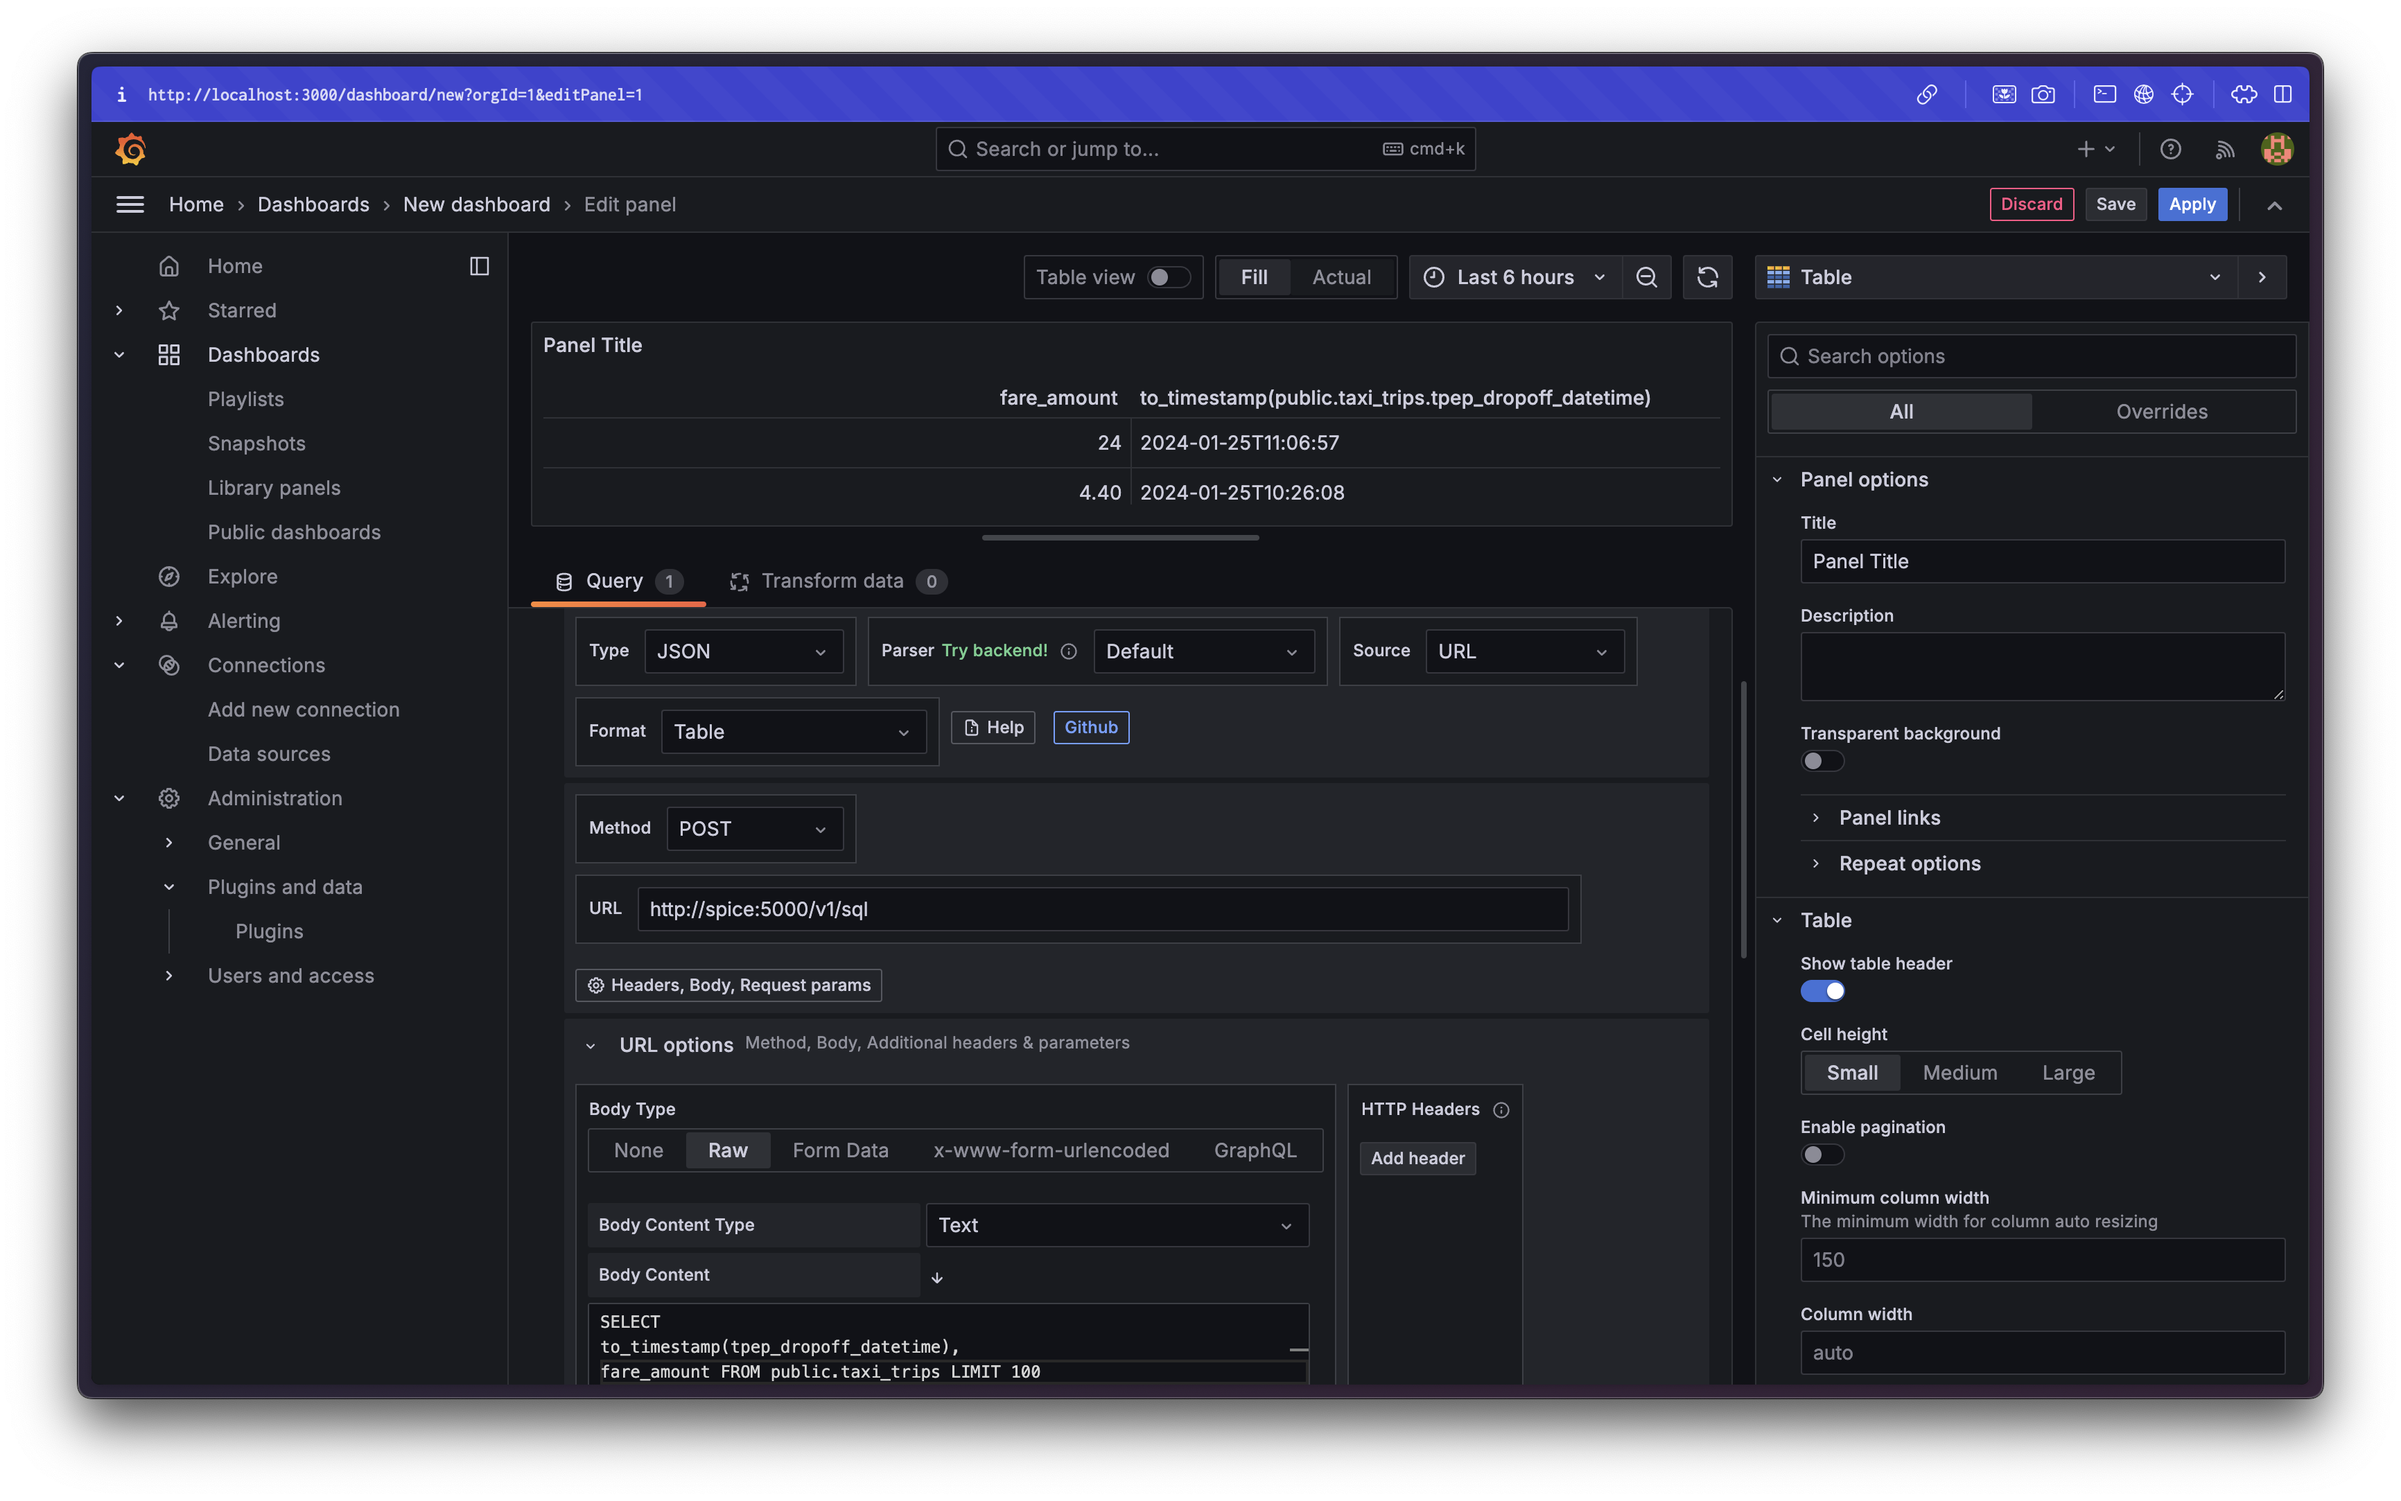
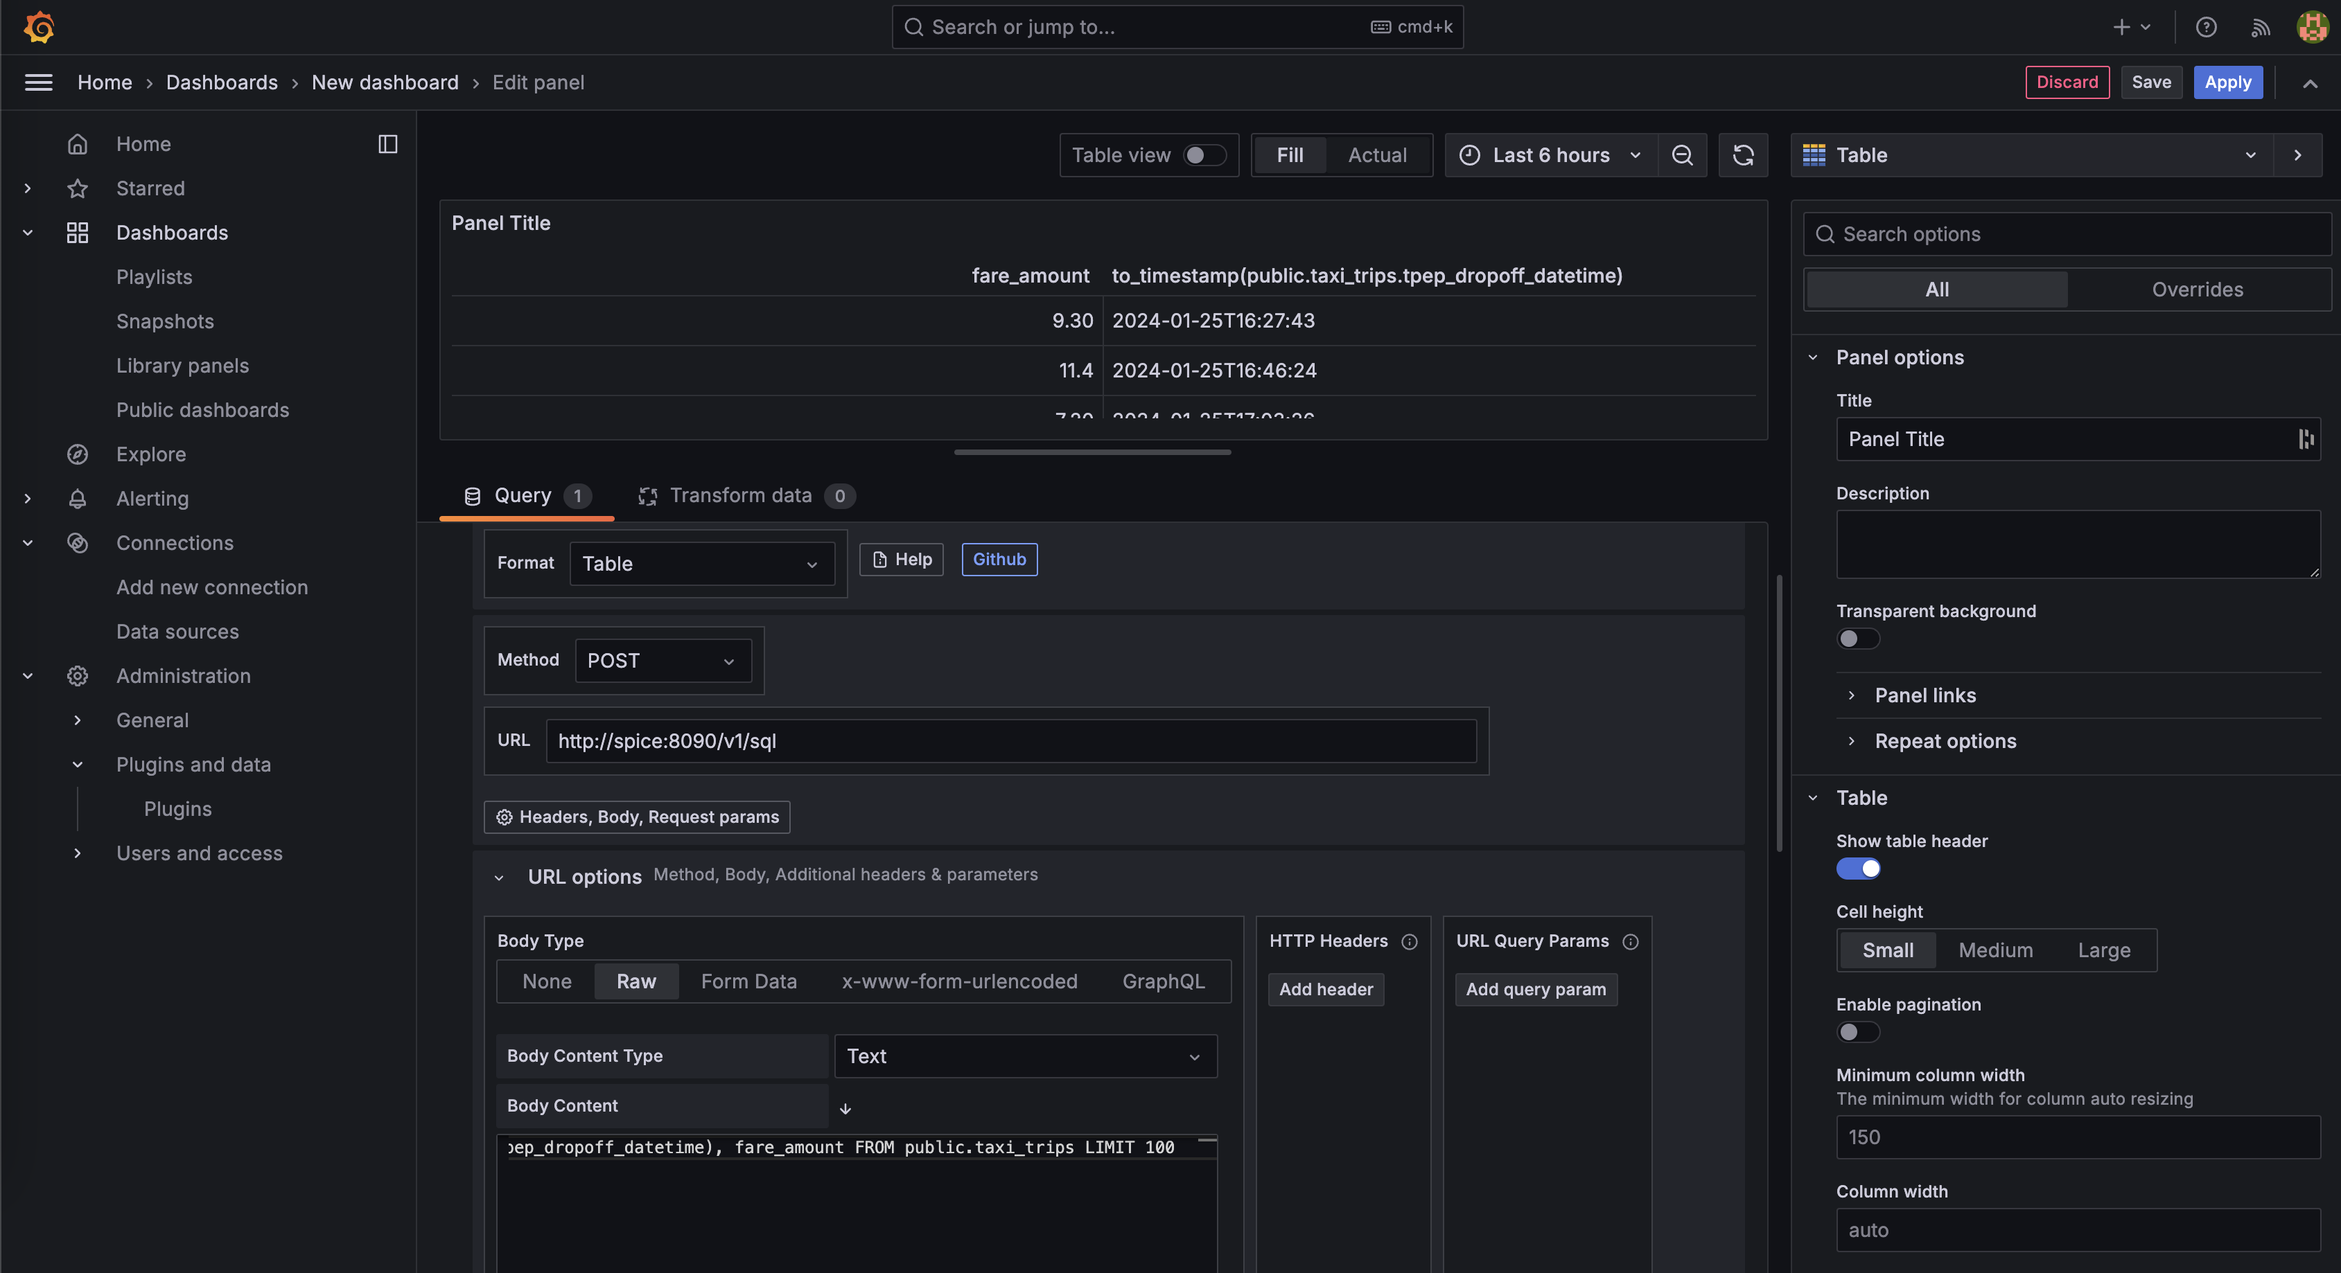
Improve grafana-datasource sample (#107)

diff --git a/grafana-datasource/README.md b/grafana-datasource/README.md
@@ -26,54 +26,47 @@ This will start the Spice runtime and Grafana server. The Spice runtime will loa
 ## Setup with FlightSQL Grafana plugin
 
 1. Open Grafana in your browser at [http://localhost:3000](http://localhost:3000).
-2. Log in with the default credentials `admin`/`admin`, skip the password change prompt.
-
+1. Log in with the default credentials `admin`/`admin`, skip the password change prompt.
 ![screenshot](./img/grafana-datasource-1.png)
 
-3. Navigate to Administation -> Plugins and data -> Plugins.
-4. Select "State: All", and search for "FlightSQL".
-
+1. Navigate to Administation -> Plugins and data -> Plugins.
+1. Select "State: All", and search for "FlightSQL".
 ![screenshot](./img/grafana-datasource-2.png)
 
-5. Click on the "Install" button to install the plugin, and then "Add new data source".
-
+1. Click on the "Install" button to install the plugin, and then "Add new data source".
 ![screenshot](./img/grafana-datasource-3.png)
 
-6. Fill in the following fields:
+1. Fill in the following fields:
    - Name: `Spice`
    - Host:Port: `spice:50051`
    - Auth Type: `None`
-
 ![screenshot](./img/grafana-datasource-4.png)
 
-7. Click on "Save & Test" to save the data source, then click on "Build a dashboard".
-8. Click on "Add visualization" and select "Spice" from the list of data sources.
-
+1. Click on "Save & Test" to save the data source, then click on "Build a dashboard".
+1. Click on "Add visualization" and select "Spice" from the list of data sources.
 ![screenshot](./img/grafana-datasource-5.png)
 
-9. Switch to SQL query editor and paste the following query:
+1. Switch to SQL query editor and paste the following query. Then select `Zoom to data`
 
    ```sql
    SELECT to_timestamp(tpep_dropoff_datetime), fare_amount FROM public.taxi_trips LIMIT 100
    ```
 
+![screenshot](./img/grafana-datasource-10.png)
 ![screenshot](./img/grafana-datasource-6.png)
 
 ### Setup with Infinity Grafana plugin
 
 Follow steps 1-3 from the previous section.
 
-4. Select "State: All", and search for "Infinity". Install and click on "Add new data source".
-
+1. Select "State: All", and search for "Infinity". Install and click on "Add new data source".
 ![screenshot](./img/grafana-datasource-7.png)
 
-5. Leave the default values and click on "Save & Test".
-
+1. Leave the default values and click on "Save & Test".
 ![screenshot](./img/grafana-datasource-8.png)
 
-6. Click on "Build a dashboard" and add a new visualization. Select "Infinity" from the list of data sources.
-
-7. Change "Method" to "POST" and "URL" to `http://spice:5000/v1/sql`. Add SQL query in body, using "Raw" mode:
+1. Click on "Build a dashboard" and add a new visualization. Select "Infinity" from the list of data sources.
+1. Change "Method" to "POST" and "URL" to `http://spice:8090/v1/sql`. Add SQL query in body, using "Raw" mode:
 
     ```sql
     SELECT to_timestamp(tpep_dropoff_datetime), fare_amount FROM public.taxi_trips LIMIT 100
